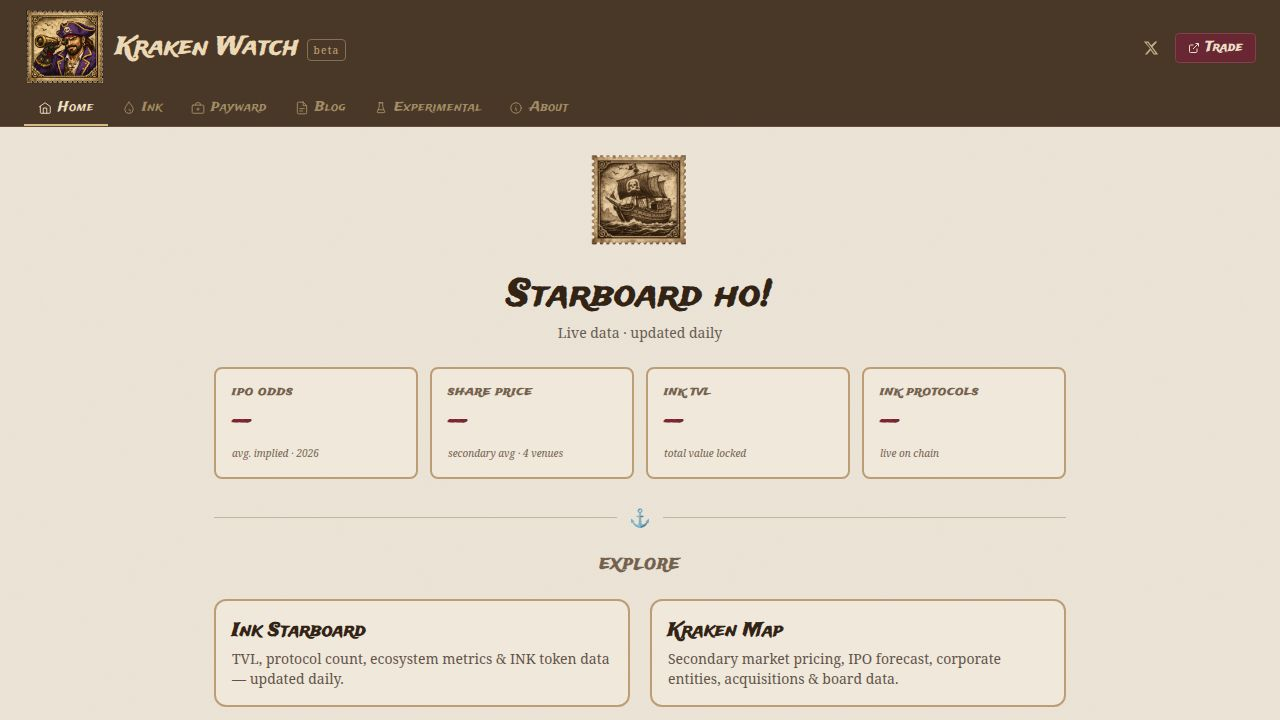
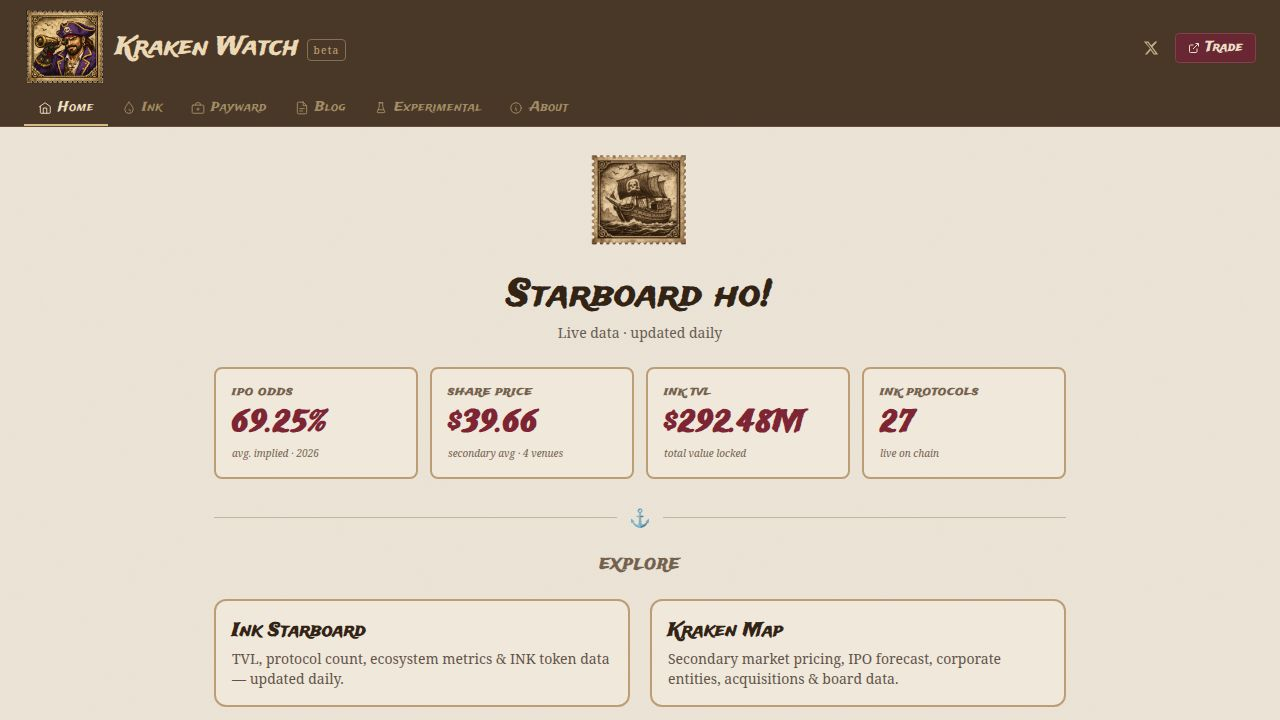
Add methodology information tooltips to key financial metrics
Introduce a new MethodologyTooltip component and integrate it across Home, KrakenMap, and Payward pages to provide users with details on how aggregated financial metrics are calculated. Update Footer and inline disclosures to reflect the data sourcing methodology.

Replit-Commit-Author: Agent
Replit-Commit-Session-Id: 2e88f62a-30bf-402f-9564-aecb07236aec
Replit-Commit-Checkpoint-Type: full_checkpoint
Replit-Commit-Event-Id: 5dae4841-5d0c-4d67-88a6-392a76258962
Replit-Commit-Screenshot-Url: https://storage.googleapis.com/screenshot-production-us-central1/40daa135-925e-4e3c-aa9a-4d7b68a89b76/2e88f62a-30bf-402f-9564-aecb07236aec/sWrpzj7
Replit-Helium-Checkpoint-Created: true

diff --git a/src/pages/KrakenMap.jsx b/src/pages/KrakenMap.jsx
@@ -1,5 +1,6 @@
 import { Helmet } from 'react-helmet-async';
 import { useSiteData } from '../hooks/useSiteData';
+import MethodologyTooltip from '../components/MethodologyTooltip';
 
 const qp = 'hsl(28 40% 14%)';
 const ut = 'hsl(30 20% 38%)';
@@ -82,13 +83,13 @@ export default function KrakenMap({ onNav }) {
         {/* Key metrics */}
         <div className="grid grid-cols-2 sm:grid-cols-4 gap-3">
           {[
-            { label: 'IPO Odds',      value: ipo?.avg_pct != null ? `${ipo.avg_pct}%` : '—',             sub: 'avg. implied · 2026' },
-            { label: 'Share Price',   value: sm?.avg_pps  != null ? `$${sm.avg_pps.toFixed(2)}` : '—',  sub: 'secondary avg · 4 venues' },
+            { label: 'IPO Odds',      value: ipo?.avg_pct != null ? `${ipo.avg_pct}%` : '—',             sub: 'avg. implied · 2026',    tooltip: true },
+            { label: 'Share Price',   value: sm?.avg_pps  != null ? `$${sm.avg_pps.toFixed(2)}` : '—',  sub: 'secondary avg · 4 venues', tooltip: true },
             { label: 'Ink TVL',       value: ink?.tvl_millions != null ? `$${ink.tvl_millions}M` : '—', sub: 'total value locked' },
             { label: 'Ink Protocols', value: ink?.protocol_count != null ? `${ink.protocol_count}` : '—', sub: 'live on chain' },
-          ].map(({ label, value, sub }) => (
+          ].map(({ label, value, sub, tooltip }) => (
             <div key={label} className="rounded-lg p-4 flex flex-col gap-1" style={cardStyle}>
-              <p className="text-[10px] font-semibold uppercase tracking-widest" style={{ fontFamily: 'var(--font-display)', color: ut }}>{label}</p>
+              <p className="text-[10px] font-semibold uppercase tracking-widest" style={{ fontFamily: 'var(--font-display)', color: ut }}>{label}{tooltip && <MethodologyTooltip />}</p>
               <p className="text-3xl font-bold tabular-nums" style={{ fontFamily: 'var(--font-display)', color: on }}>{value}</p>
               <p className="text-[10px]" style={{ color: ut, fontStyle: 'italic' }}>{sub}</p>
             </div>
@@ -181,7 +182,7 @@ export default function KrakenMap({ onNav }) {
           </div>
           <div className="px-4 pb-3">
             <p className="text-[10px]" style={{ color: ut }}>
-              Weighted avg: <span className="font-bold" style={{ color: on }}>{sm?.avg_pps ? `$${sm.avg_pps}` : '—'}</span>
+              Weighted avg<MethodologyTooltip />: <span className="font-bold" style={{ color: on }}>{sm?.avg_pps ? `$${sm.avg_pps}` : '—'}</span>
               {sm?.volume_30d_est_m ? ` · Est. 30D vol ~$${sm.volume_30d_est_m}M across venues` : ''}
             </p>
           </div>
@@ -207,7 +208,7 @@ export default function KrakenMap({ onNav }) {
             style={{ background: 'hsl(33 28% 82%)', border: '1px solid hsl(33 25% 70%)' }}>
             ↻ Updated daily · {updated}
           </span>
-          Kraken Watch is independent research, not affiliated with Kraken or Payward
+          Kraken Watch is independent research, not affiliated with Kraken or Payward. Aggregated figures are derived from multiple market data sources using Kraken Watch&apos;s proprietary methodology.
         </p>
       </div>
     </>

diff --git a/src/pages/Payward.jsx b/src/pages/Payward.jsx
@@ -1,6 +1,7 @@
 import { useState } from 'react';
 import { Helmet } from 'react-helmet-async';
 import { useSiteData } from '../hooks/useSiteData';
+import MethodologyTooltip from '../components/MethodologyTooltip';
 
 const qp = 'hsl(28 40% 14%)';
 const ut = 'hsl(30 20% 38%)';
@@ -138,7 +139,7 @@ function IpoForecastModule({ ipo }) {
     }>
       <div className="grid grid-cols-1 sm:grid-cols-2 gap-6">
         <div>
-          <p className="text-[10px] font-semibold uppercase tracking-widest mb-1" style={{ fontFamily: 'var(--font-display)', color: ut }}>IPO by Dec 31 2026</p>
+          <p className="text-[10px] font-semibold uppercase tracking-widest mb-1" style={{ fontFamily: 'var(--font-display)', color: ut }}>IPO by Dec 31 2026<MethodologyTooltip /></p>
           <p className="text-5xl font-bold tabular-nums leading-none" style={{ fontFamily: 'var(--font-display)', color: on }}>
             {avg == null ? '—' : `${avg}%`}
           </p>
@@ -187,13 +188,13 @@ function SecondaryMarketModule({ sm }) {
     }>
       <div className="grid grid-cols-1 sm:grid-cols-2 gap-6">
         <div>
-          <p className="text-[10px] font-semibold uppercase tracking-widest mb-1" style={{ fontFamily: 'var(--font-display)', color: ut }}>Secondary Market Fair Value</p>
+          <p className="text-[10px] font-semibold uppercase tracking-widest mb-1" style={{ fontFamily: 'var(--font-display)', color: ut }}>Secondary Market Fair Value<MethodologyTooltip /></p>
           <p className="text-5xl font-bold tabular-nums leading-none" style={{ fontFamily: 'var(--font-display)', color: on }}>
             {sm?.avg_pps == null ? '—' : `$${sm.avg_pps.toFixed(2)}`}
           </p>
           <p className="text-[11px] mt-1.5" style={{ color: ut, fontFamily: 'var(--font-serif)', fontStyle: 'italic' }}>avg. across 4 secondary venues</p>
           <div className="mt-3 space-y-1">
-            <p className="text-[10px] font-semibold uppercase tracking-widest mb-1" style={{ fontFamily: 'var(--font-display)', color: ut }}>Est. 30D Volume</p>
+            <p className="text-[10px] font-semibold uppercase tracking-widest mb-1" style={{ fontFamily: 'var(--font-display)', color: ut }}>Est. 30D Volume<MethodologyTooltip /></p>
             <p className="text-2xl font-bold tabular-nums" style={{ fontFamily: 'var(--font-display)', color: on }}>
               {sm?.volume_30d_est_m == null ? '—' : `~$${sm.volume_30d_est_m}M`}
             </p>

diff --git a/src/pages/Home.jsx b/src/pages/Home.jsx
@@ -1,4 +1,5 @@
 import { useSiteData } from '../hooks/useSiteData';
+import MethodologyTooltip from '../components/MethodologyTooltip';
 
 // Exact color constants from the live bundle
 const qp = 'hsl(28 40% 14%)';   // foreground dark brown
@@ -17,7 +18,7 @@ function Footer({ extra }) {
         ↻ Updated daily · {updated}
       </span>
       {extra && <>{extra} · </>}
-      Kraken Watch is independent research, not affiliated with Kraken or Payward
+      Kraken Watch is independent research, not affiliated with Kraken or Payward. Aggregated figures are derived from multiple market data sources using Kraken Watch&apos;s proprietary methodology.
     </p>
   );
 }
@@ -53,14 +54,14 @@ export default function Home({ onNav }) {
       {/* 2×2 / 4-col metric grid */}
       <div className="grid grid-cols-2 sm:grid-cols-4 gap-3">
         {[
-          { label: 'IPO Odds',      value: ipo?.avg_pct != null ? `${ipo.avg_pct}%` : '—',              sub: 'avg. implied · 2026' },
-          { label: 'Share Price',   value: sm?.avg_pps  != null ? `$${sm.avg_pps.toFixed(2)}` : '—',   sub: 'secondary avg · 4 venues' },
+          { label: 'IPO Odds',      value: ipo?.avg_pct != null ? `${ipo.avg_pct}%` : '—',              sub: 'avg. implied · 2026',    tooltip: true },
+          { label: 'Share Price',   value: sm?.avg_pps  != null ? `$${sm.avg_pps.toFixed(2)}` : '—',   sub: 'secondary avg · 4 venues', tooltip: true },
           { label: 'Ink TVL',       value: ink?.tvl_millions != null ? `$${ink.tvl_millions}M` : '—',  sub: 'total value locked' },
           { label: 'Ink Protocols', value: ink?.protocol_count != null ? `${ink.protocol_count}` : '—', sub: 'live on chain' },
-        ].map(({ label, value, sub }) => (
+        ].map(({ label, value, sub, tooltip }) => (
           <div key={label} className="rounded-lg p-4 flex flex-col gap-1" style={cardStyle}>
             <p className="text-[10px] font-semibold uppercase tracking-widest" style={{ fontFamily: 'var(--font-display)', color: ut }}>
-              {label}
+              {label}{tooltip && <MethodologyTooltip />}
             </p>
             <p className="text-3xl font-bold tabular-nums" style={{ fontFamily: 'var(--font-display)', color: on }}>
               {value}

diff --git a/src/components/MethodologyTooltip.jsx b/src/components/MethodologyTooltip.jsx
@@ -1,0 +1,74 @@
+import { useState, useRef, useEffect } from 'react';
+
+const TEXT = 'Derived from multiple market data sources using Kraken Watch\u2019s proprietary methodology.';
+
+export default function MethodologyTooltip() {
+  const [open, setOpen] = useState(false);
+  const ref = useRef(null);
+
+  useEffect(() => {
+    if (!open) return;
+    function handle(e) {
+      if (ref.current && !ref.current.contains(e.target)) setOpen(false);
+    }
+    document.addEventListener('mousedown', handle);
+    document.addEventListener('touchstart', handle);
+    return () => {
+      document.removeEventListener('mousedown', handle);
+      document.removeEventListener('touchstart', handle);
+    };
+  }, [open]);
+
+  return (
+    <span ref={ref} className="relative inline-flex items-center" style={{ verticalAlign: 'middle' }}>
+      <button
+        type="button"
+        aria-label="Methodology information"
+        onClick={() => setOpen(v => !v)}
+        onMouseEnter={() => setOpen(true)}
+        onMouseLeave={() => setOpen(false)}
+        style={{
+          background: 'none',
+          border: 'none',
+          padding: '0 2px',
+          cursor: 'pointer',
+          color: 'hsl(30 20% 55%)',
+          fontSize: '0.65rem',
+          lineHeight: 1,
+          display: 'inline-flex',
+          alignItems: 'center',
+        }}
+      >
+        ⓘ
+      </button>
+      {open && (
+        <span
+          role="tooltip"
+          style={{
+            position: 'absolute',
+            bottom: '100%',
+            left: '50%',
+            transform: 'translateX(-50%)',
+            marginBottom: '5px',
+            width: '200px',
+            background: 'hsl(28 40% 14%)',
+            color: 'hsl(38 50% 82%)',
+            fontSize: '0.65rem',
+            lineHeight: 1.4,
+            padding: '6px 8px',
+            borderRadius: '5px',
+            pointerEvents: 'none',
+            zIndex: 50,
+            boxShadow: '0 2px 8px rgba(0,0,0,0.3)',
+            whiteSpace: 'normal',
+            textAlign: 'center',
+            fontFamily: 'var(--font-serif)',
+            fontStyle: 'italic',
+          }}
+        >
+          {TEXT}
+        </span>
+      )}
+    </span>
+  );
+}

diff --git a/src/components/Footer.jsx b/src/components/Footer.jsx
@@ -5,7 +5,7 @@ export default function Footer({ activeTab }) {
       className="text-center py-5 px-4 text-xs shrink-0"
     >
       <p style={{ color: 'hsl(38 20% 55%)' }}>
-        Kraken Watch is independent research, not affiliated with Kraken or Payward. © {new Date().getFullYear()}
+        Kraken Watch is independent research, not affiliated with Kraken or Payward. Aggregated figures are derived from multiple market data sources using Kraken Watch&apos;s proprietary methodology. © {new Date().getFullYear()}
       </p>
       <p className="mt-1" style={{ color: 'hsl(38 15% 45%)', fontSize: '0.7rem' }}>
         Data updated daily ·{' '}

diff --git a/src/pages/InkMarkets.jsx b/src/pages/InkMarkets.jsx
@@ -146,7 +146,7 @@ export default function InkMarkets({ onNav }) {
             style={{ background: 'hsl(33 28% 82%)', border: '1px solid hsl(33 25% 70%)' }}>
             ↻ Updated daily · {updated}
           </span>
-          Kraken Watch is independent research, not affiliated with Kraken or Payward
+          Kraken Watch is independent research, not affiliated with Kraken or Payward. Aggregated figures are derived from multiple market data sources using Kraken Watch&apos;s proprietary methodology.
         </p>
       </div>
     </>
